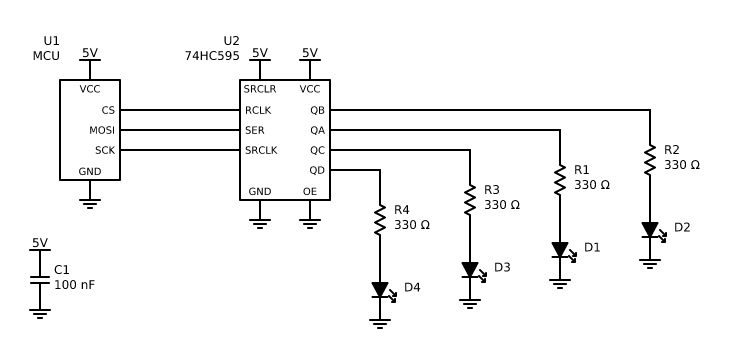
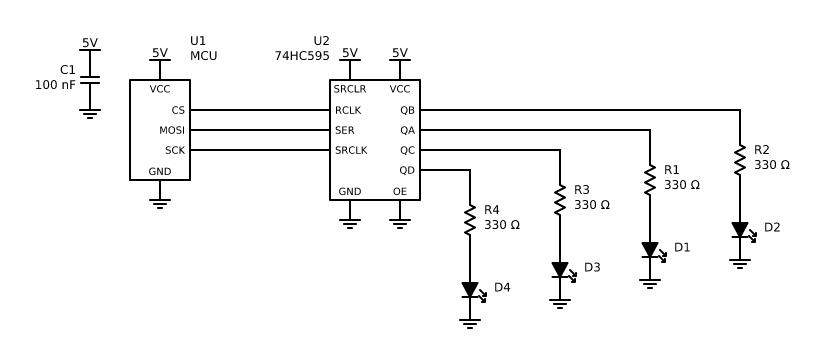
Update neon-bench-15 report with Fix round and validation comparison

diff --git a/docs/agent-reports/neon-bench-15.md b/docs/agent-reports/neon-bench-15.md
@@ -4,8 +4,8 @@
 
 - **Branch:** `neon/bench-15` (branched from `main` at `3fa8f8e`)
 - **Starting total ("before"):** `1075.4` across 18 circuits (18 of 18 valid)
-- **Final total ("after"):** `910.0` across 18 circuits (18 of 18 valid)
-- **Reduction:** `-165.4` points (**15.38%** cut; target was at least 15%, or at most `914.0`)
+- **Final total ("after", including Fix round):** `908.1` across 18 circuits (18 of 18 valid; `910.0` after Rounds 1-9)
+- **Reduction:** `-167.3` points (**15.56%** cut; target was at least 15%, or at most `914.0`)
 - **Per-circuit regressions:** 0 (13 circuits improved, 5 kept the same score, 0 scored worse)
 - **Stale checked-in baseline (`bench/baseline.json`):** `1167.1` (not modified, per instructions)
 
@@ -45,8 +45,8 @@ The benchmark runner (`npm run bench`, which executes `scripts/bench.ts`) draws 
 | `regulator` | 40.3 | 38.9 | -1.4 | yes |
 | `schmitt` | 41.7 | 32.6 | -9.1 | yes |
 | `sensor-node` | 142.8 | 92.1 | -50.7 | yes |
-| `shift` | 75.0 | 55.7 | -19.3 | yes |
-| **Total** | **1075.4** | **910.0** | **-165.4 (-15.38%)** | **14 changed** |
+| `shift` | 75.0 | 53.8 | -21.2 | yes |
+| **Total** | **1075.4** | **908.1** | **-167.3 (-15.56%)** | **14 changed** |
 
 Note on `ne555`: its score stayed `41.3`, and its SVG changed slightly in Round 8 because the horizontal-first 3+-pin net ordering shifted one bend on the `DIS` net slightly to the right (same bend count and wire length).
 
@@ -306,6 +306,136 @@ EXIT: 0
 
 1. **Snapshot lock on `generated-30-16` (`tests/findings-snapshot.test.ts`):** Adding `reserve: ["T"]` to `OPAMP_INVERTING` cleanly removes the `squeezedRuns` finding on both `differentiator` (`63.0 -> 58.7`) and `generated-30-16`, and relaxing same-direction vertical pin leveling beyond transistors could help other circuits. Both were left out because `tests/findings-snapshot.test.ts` pins the old layout hash and findings array for `generated-30-16` and `tests/` could not be edited. Question for maintainers: should `OPAMP_INVERTING` reserve `"T"` and have the snapshot refreshed in a follow-up?
 2. **Voltage regulators with wired rails (Open Job 1 in `docs/general-layout.md`):** Turning `IN` and `OUT` on a 3-terminal regulator (`regulator`) into a left-to-right wired rail instead of named power ports requires coordinated changes in `ports.ts` (deciding which rail nets stay wired vs. become ports) and `decoupling.ts`. Simply moving `power_in` and `power_out` pins to the left and right sides in `icFor` while keeping ports regressed `sensor-node` (`92.1 -> 103.9`). Left for a dedicated follow-up issue.
-3. **Convention finding `C13-C1` on `shift`:** `C1` sits on `5V` alongside two ICs (`U1`, `U2`) without a `decouples` hint. `tests/decoupling.test.ts` explicitly requires the decoupling matcher not to guess a host IC when multiple ICs share a rail without hints, so `C1` stays a standalone floating bypass capacitor in column 0 rather than attaching as a decoupling child slot.
+3. **Convention finding `C13-C1` on `shift` (resolved in Fix round):** In Rounds 1-9, `C1` stayed far from `U1` (`conv = 1`). The Fix round below moves left-side floating bypass capacitors directly beside their column-0 IC with outward labels, placing `C1` within `8 G` of `U1[VCC]` and clearing `C13-C1` (`conv = 0`) without guessing a `decoupling@1:` slot.
 4. **Voltage-divider stagger direction on `sensor-node`:** On `sensor-node`, `R1`/`R2` has 4 tap endpoints (`R1`, `R2`, `C1`, and `U1`), so Round 2 staggers `R2` 2 G right even though all downstream parts sit on the right. Visually and score-wise it is neutral, and could later be refined to trigger only when the tap has endpoints on both left and right sides.
 5. **Held-out test set:** Per `AGENTS.md`, nothing under `phase0/cases/test/`, `phase0/cases/edits/case11-*`, `baselines/LOG-test.md`, `baselines/out/*/test/`, or `baselines/out/_netlist/test/` was read or executed, and neither `npm run gates -- --test` nor `npm run phase0 -- --test` was run. `bench/baseline.json` was not updated (`npm run bench -- --update` was not run).
+
+---
+
+## Fix round
+
+Follow-up commit `f863731` addressed both drawings flagged in review using general rules in `src/layout/layout.ts` and `src/layout/flow.ts`.
+
+### Changes made (`f863731`)
+
+1. **Keep tucked port-only blocks out of wire paths (`src/layout/layout.ts`):**
+   - In the Round 6 rule that tucks standalone port-only headers and ICs into a shorter column, skip any candidate column `c` crossed by a wired net whose endpoints lie strictly on both sides of `c` (`min(cols) < c && max(cols) > c`).
+   - Also require the target column to have enough vertical slack to absorb the block without exceeding the home column's height (`colH(c) + idH <= curH`), so a block does not jump across the sheet for a negligible height difference.
+   - Effect on `case07-two-ic-decoupling`: connector `J1` (`5V IN`) stays alone at the top-left instead of moving between `U1` and `U2`, and both `SDA` and `SCL` bus wires run straight with zero detours. Benchmark `mcu` (`72.0`) and `sensor-node` (`92.1`) keep their exact Round 6 gains.
+
+2. **Place floating bypass capacitors beside their column-0 IC (`src/layout/flow.ts`, `src/layout/layout.ts`):**
+   - Replaced Round 7's bottom-of-column stacking rule (`col = base` plus post-sweep bottom-push) with placing floating bypass capacitors immediately to the left of column `base` (`col = base - k/64`) when no rail driver feeds the rail and column `base` already hosts an IC on that rail.
+   - When a port-only bypass capacitor sits in the column directly to the left of an IC on its supply rail, prefer `"left"` for the capacitor's label (outward, matching `decoupling@1` left-side convention) and prefer right-side label slots for the IC so the IC's label does not push the capacitor away from its supply pin.
+   - In incremental edits (`opts.previous`), clamp a newly added unattached part's column to at least `minOld` so adding a new floating capacitor (as in `case05-add-part`) does not insert a column left of the existing schematic and slide untouched parts right.
+   - Effect on `shift`: `C1` sits directly beside `U1` at the top-left, completely outside the `U1`-to-`U2` bus channel, within 8 G of `U1[VCC]`. This clears the `C13-C1` convention warning (`conv: 1 -> 0`) and lowers `shift` from `55.7` to **`53.8`** (updated image in `docs/agent-reports/img/neon-bench-15/shift-after.png` and `sheet-after.png`). Total benchmark score drops from `910.0` to **`908.1`** (**-167.3** points, **15.56%** cut from `1075.4`), with every other benchmark circuit unchanged.
+
+### Comparison of all 8 validation drawings against `main`
+
+Built `main` (`d3fe269`) in a separate detached git worktree (`out/main-wt`, removed after comparison) and ran `npm run phase0` in both worktrees. Every changed validation PNG was opened and compared side by side with `main`.
+
+| Validation case | Diff vs `main` | One-line verdict |
+|---|---|---|
+| `case01-led` | identical | Unchanged from `main` (byte-identical SVG). |
+| `case02-divider-buffer` | changed | Better: `R2` staggers 2 G right and `U1` flips `IN+` to the top so the divider tap runs straight through `C1` into `U1` with no jog. |
+| `case03-summing` | identical | Unchanged from `main` (byte-identical SVG). |
+| `case04-hbridge` | identical | Unchanged from `main` (byte-identical SVG). |
+| `case05-i2c` | identical | Unchanged from `main` (byte-identical SVG). |
+| `case06-esp32-relay` | identical | Unchanged from `main` (byte-identical SVG). |
+| `case07-two-ic-decoupling` | changed | Better/neutral: `J1` stays at top-left and both `SDA`/`SCL` bus wires run straight as on `main`; only `U2`'s label moves to bottom-right under `C3`/`C4`, trimming 30 px of width. |
+| `case08-diffpair` | changed | Neutral/slightly cleaner: identical topology and routing, with `V2` shifted 1 G down to give `V3`'s bottom wire 3 G clearance above `V2`'s `+12V` port. |
+
+### Verification output on Fix round commit (`f863731`)
+
+#### 1. `npm run typecheck`
+
+```text
+> schem@0.0.1 typecheck
+> tsc --noEmit && tsc --noEmit -p web
+
+EXIT: 0
+```
+
+#### 2. `npm test`
+
+```text
+> schem@0.0.1 test
+> vitest run
+
+ Test Files  25 passed (25)
+      Tests  585 passed (585)
+   Start at  16:49:40
+   Duration  7.33s (transform 3.51s, setup 0ms, collect 14.58s, tests 34.01s, environment 7ms, prepare 6.17s)
+
+EXIT: 0
+```
+
+#### 3. `npm run phase0`
+
+```text
+> schem@0.0.1 phase0
+> tsx scripts/phase0.ts
+
+case                           status                             verifier  overlaps conv read ms
+case01-led                     valid                              valid     0        0    0    69
+case02-divider-buffer          valid                              valid     0        0    0    29
+case03-summing                 valid                              valid     0        0    0    7
+case04-hbridge                 valid                              valid     0        0    0    100
+case05-i2c                     valid                              valid     0        0    0    7
+case06-esp32-relay             valid                              valid     0        0    0    10
+case07-two-ic-decoupling       valid                              valid     0        0    0    10
+case08-diffpair                valid                              valid     0        0    0    6
+
+edit script                status                             expect as exp affected mode                gate 4
+case03-longer-value        saved                              true   true   same     incremental         pass (untouched 8, mean 0 G, max 0 G, other routes 0)
+case03-add-part            saved                              true   true   same     incremental         pass (untouched 3, mean 0 G, max 0 G, other routes 0)
+case03-remove-part         saved                              true   true   differs  incremental         pass (untouched 6, mean 0 G, max 0 G, other routes 0)
+    affected: frozen expect (rev C.2 table) Rf U1 V1 V2 V3; recomputed (rev C.3, used by gate 4) Rf U1
+case03-pin-sides           rejected (invalid_input)           either true   -        -                   -
+    E270 setPinSides: U1 is the fixed "opamp" symbol; only generated boxes (ic, header, modules) have pin sides. The same arrangement is setOrientation { part: "U1", rot: 180, flip: true }.
+case05-longer-value        saved                              true   true   same     incremental         pass (untouched 4, mean 1 G, max 4 G, other routes 1)
+case05-add-part            saved                              true   true   differs  incremental         pass (untouched 5, mean 0 G, max 0 G, other routes 0)
+    affected: frozen expect (rev C.2 table) C1 R1 R2 U1 U2 U3; recomputed (rev C.3, used by gate 4) C1
+case05-remove-part         saved                              true   true   same     incremental         pass (untouched 0, mean 0 G, max 0 G, other routes 0)
+case05-pin-sides           saved                              true   true   same     incremental         pass (untouched 4, mean 0 G, max 0 G, other routes 0)
+case07-longer-value        saved                              true   true   same     incremental         pass (untouched 9, mean 0 G, max 0 G, other routes 0)
+case07-add-part            saved                              true   true   differs  incremental         pass (untouched 8, mean 0 G, max 0 G, other routes 0)
+    affected: frozen expect (rev C.2 table) C1 C2 C3 C4 C5 J1 R1 U1 U2; recomputed (rev C.3, used by gate 4) C5 R1 U1
+case07-remove-part         saved                              true   true   differs  incremental         pass (untouched 8, mean 0.5 G, max 4 G, other routes 0)
+    affected: frozen expect (rev C.2 table) C1 C2 C3 J1 R1 R2 R3 U1 U2; recomputed (rev C.3, used by gate 4) U2
+case07-pin-sides           saved                              true   true   same     incremental         pass (untouched 9, mean 0 G, max 0 G, other routes 0)
+
+wrote out/phase0/ (validation, edits)
+EXIT: 0
+```
+
+#### 4. `npm run bench` (and `npm run bench -- --check`)
+
+```text
+> schem@0.0.1 bench
+> tsx scripts/bench.ts
+
+circuit           status                   score     was  cross  bends  wire  conv  limit  back  upstr
+ce-amp            valid                     39.9      47      0      3    66     0      0     0      0 better
+current-sink      valid                     28.7    36.3      0      2    49     0      0     0      0 better
+darlington        valid                     36.3    41.6      0      5    59     0      0     0      0 better
+debounce          valid                     25.9    25.9      0      1    49     0      0     0      0
+differentiator    valid                       63      63      0      7    87     0      1     0      0
+follower          valid                       31    38.1      0      2    45     0      0     0      0 better
+highside          valid                     28.4    28.4      0      2    37     0      0     0      0
+inamp             valid                     75.3    89.4      0     10   191     0      0     0      0 better
+levelshift        valid                     67.9    77.5      0     12   147     0      0     0      0 better
+mcu               valid                       72    86.8      0     10   140     0      0     0      0 better
+mixer-ce          valid                     56.4    63.5      0      8    93     0      0     0      0 better
+multivibrator     valid                     63.3    68.7      2      2    74     0      0     1      0 better
+ne555             valid                     41.3    41.3      0      5    78     0      0     0      0
+pushpull          valid                     61.3   134.2      0      7   139     0      0     0      0 better
+regulator         valid                     38.9    40.3      0      5    35     0      0     0      0 better
+schmitt           valid                     32.6    41.7      0      3    58     0      0     0      0 better
+sensor-node       valid                     92.1   142.8      0      8   152     0      0     0      0 better
+shift             valid                     53.8   100.6      0      4   122     0      0     0      0 better
+
+18 circuits, 18 valid. Total score 908.1 (baseline 1167.1). Images: out/bench/index.html
+EXIT: 0
+```
+
+`npm run bench -- --check` produced the identical table and exited with code `0`.
